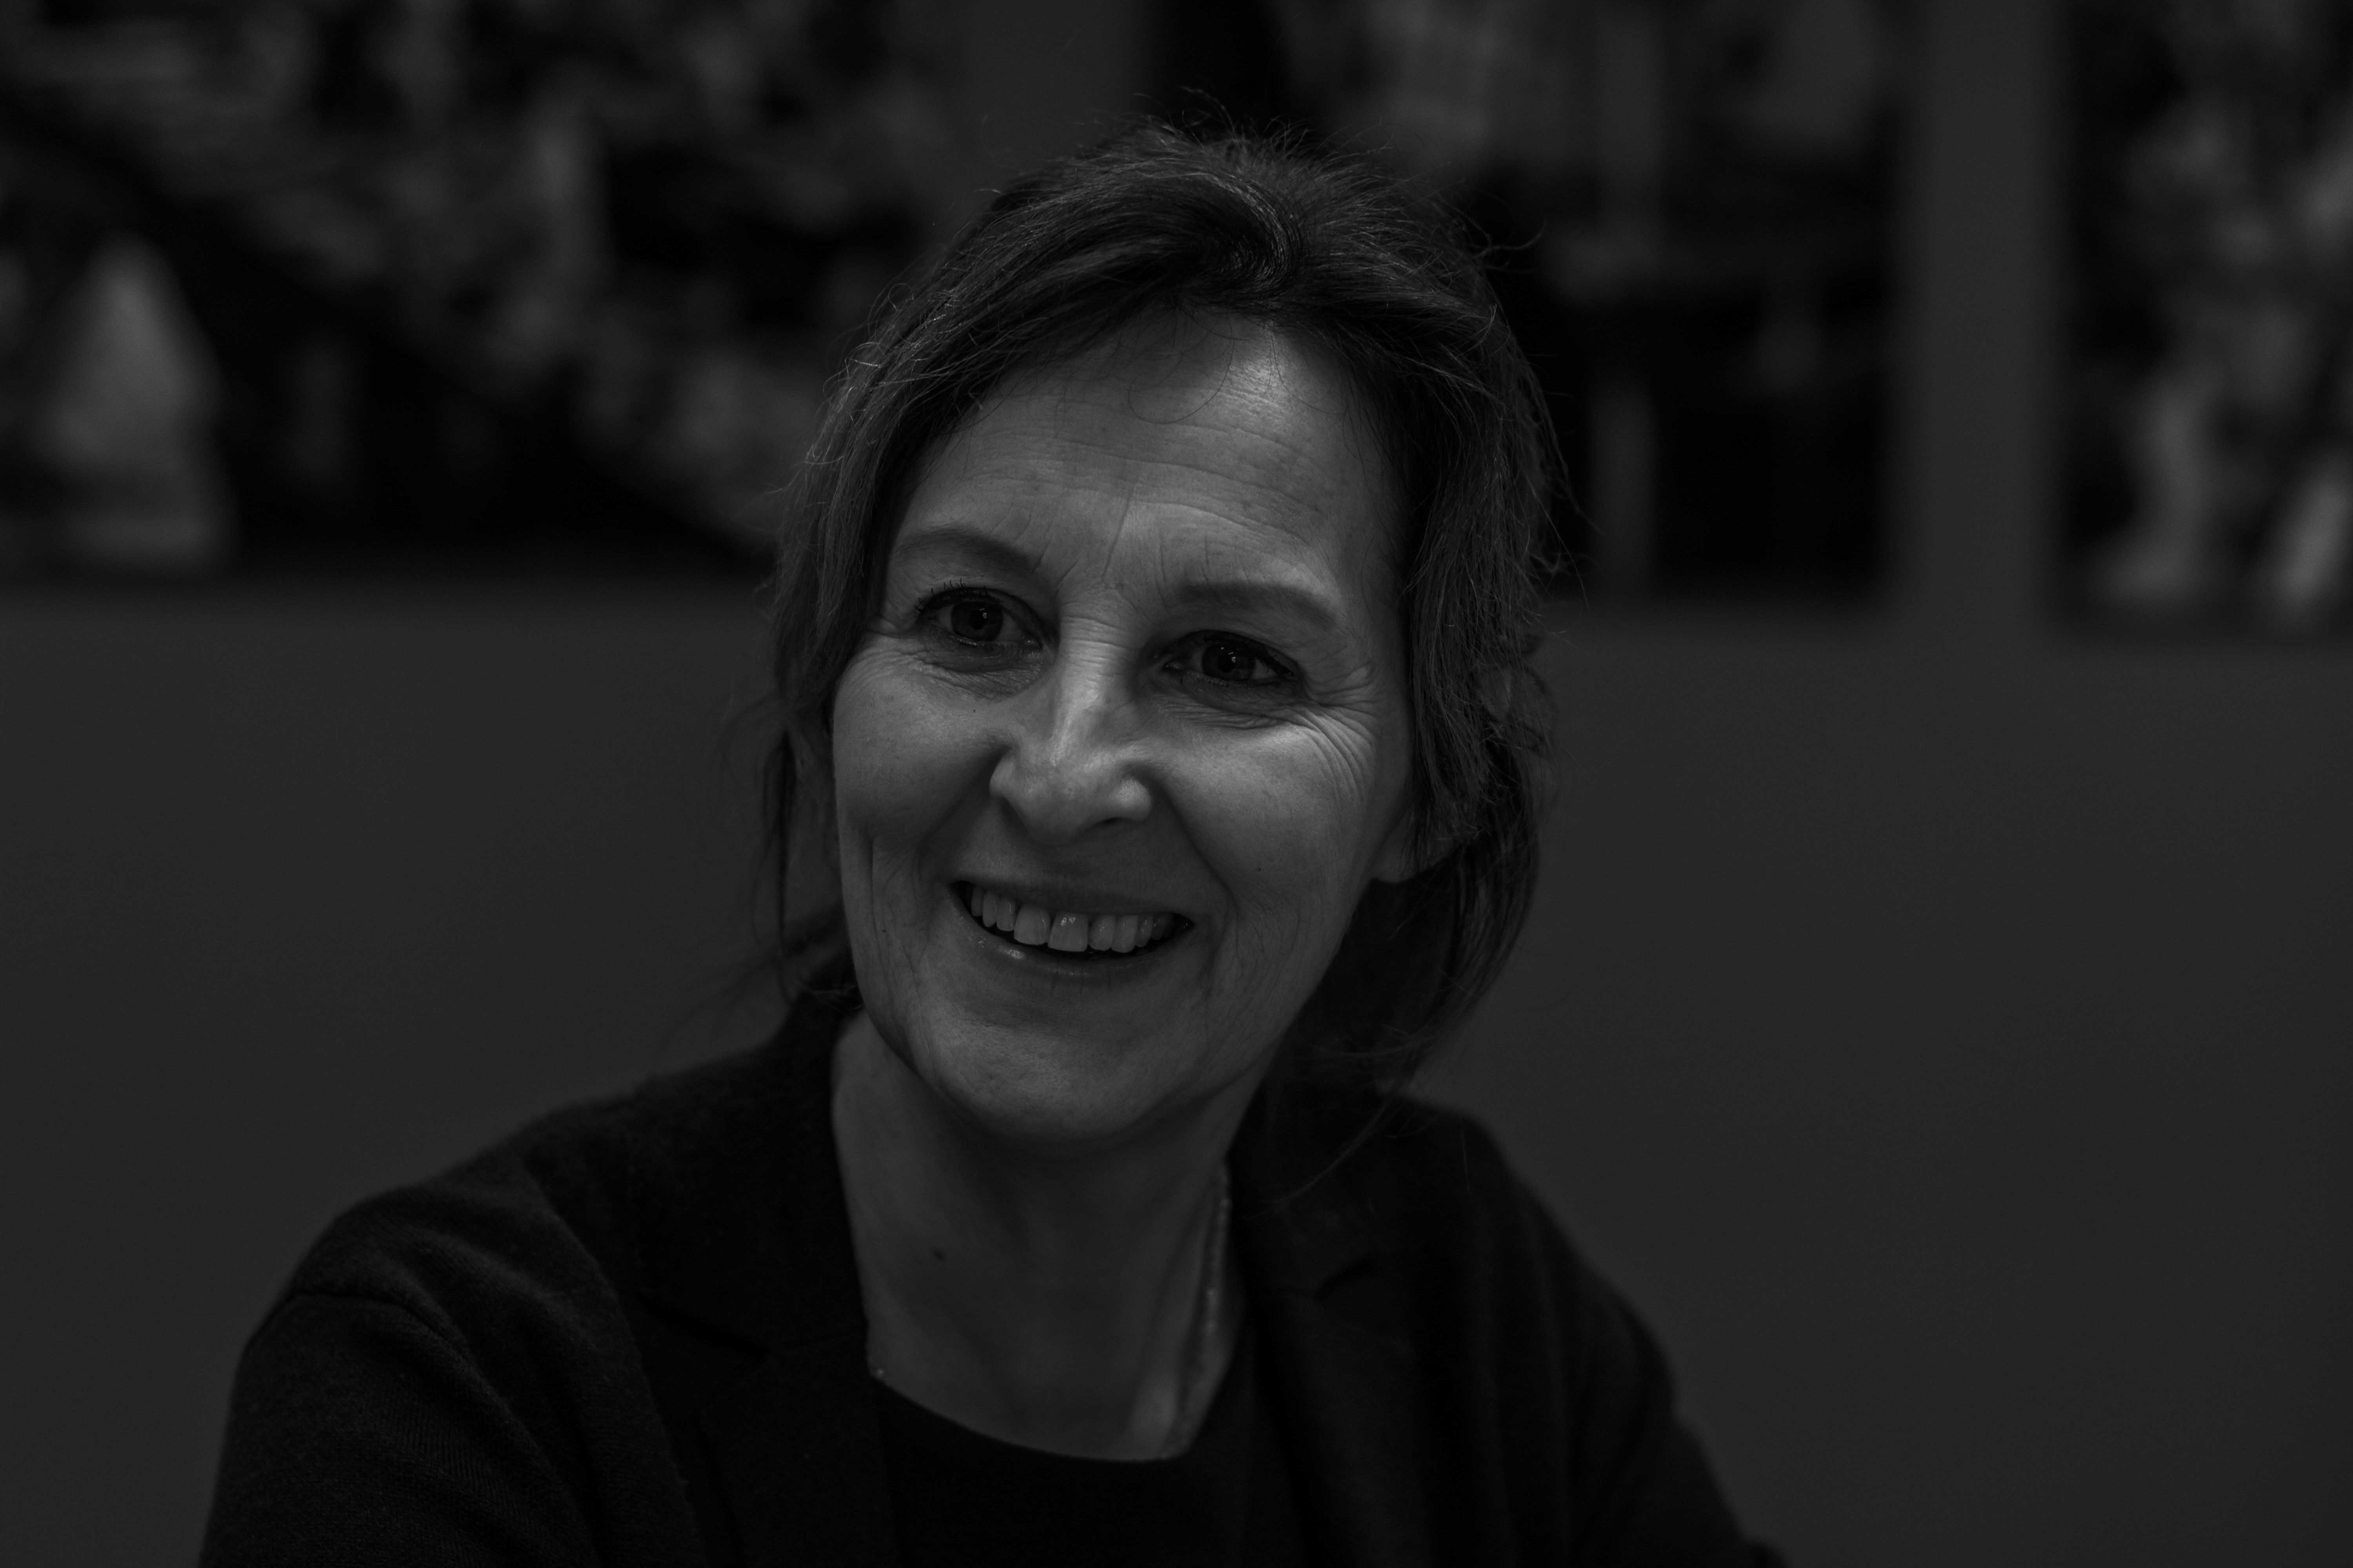
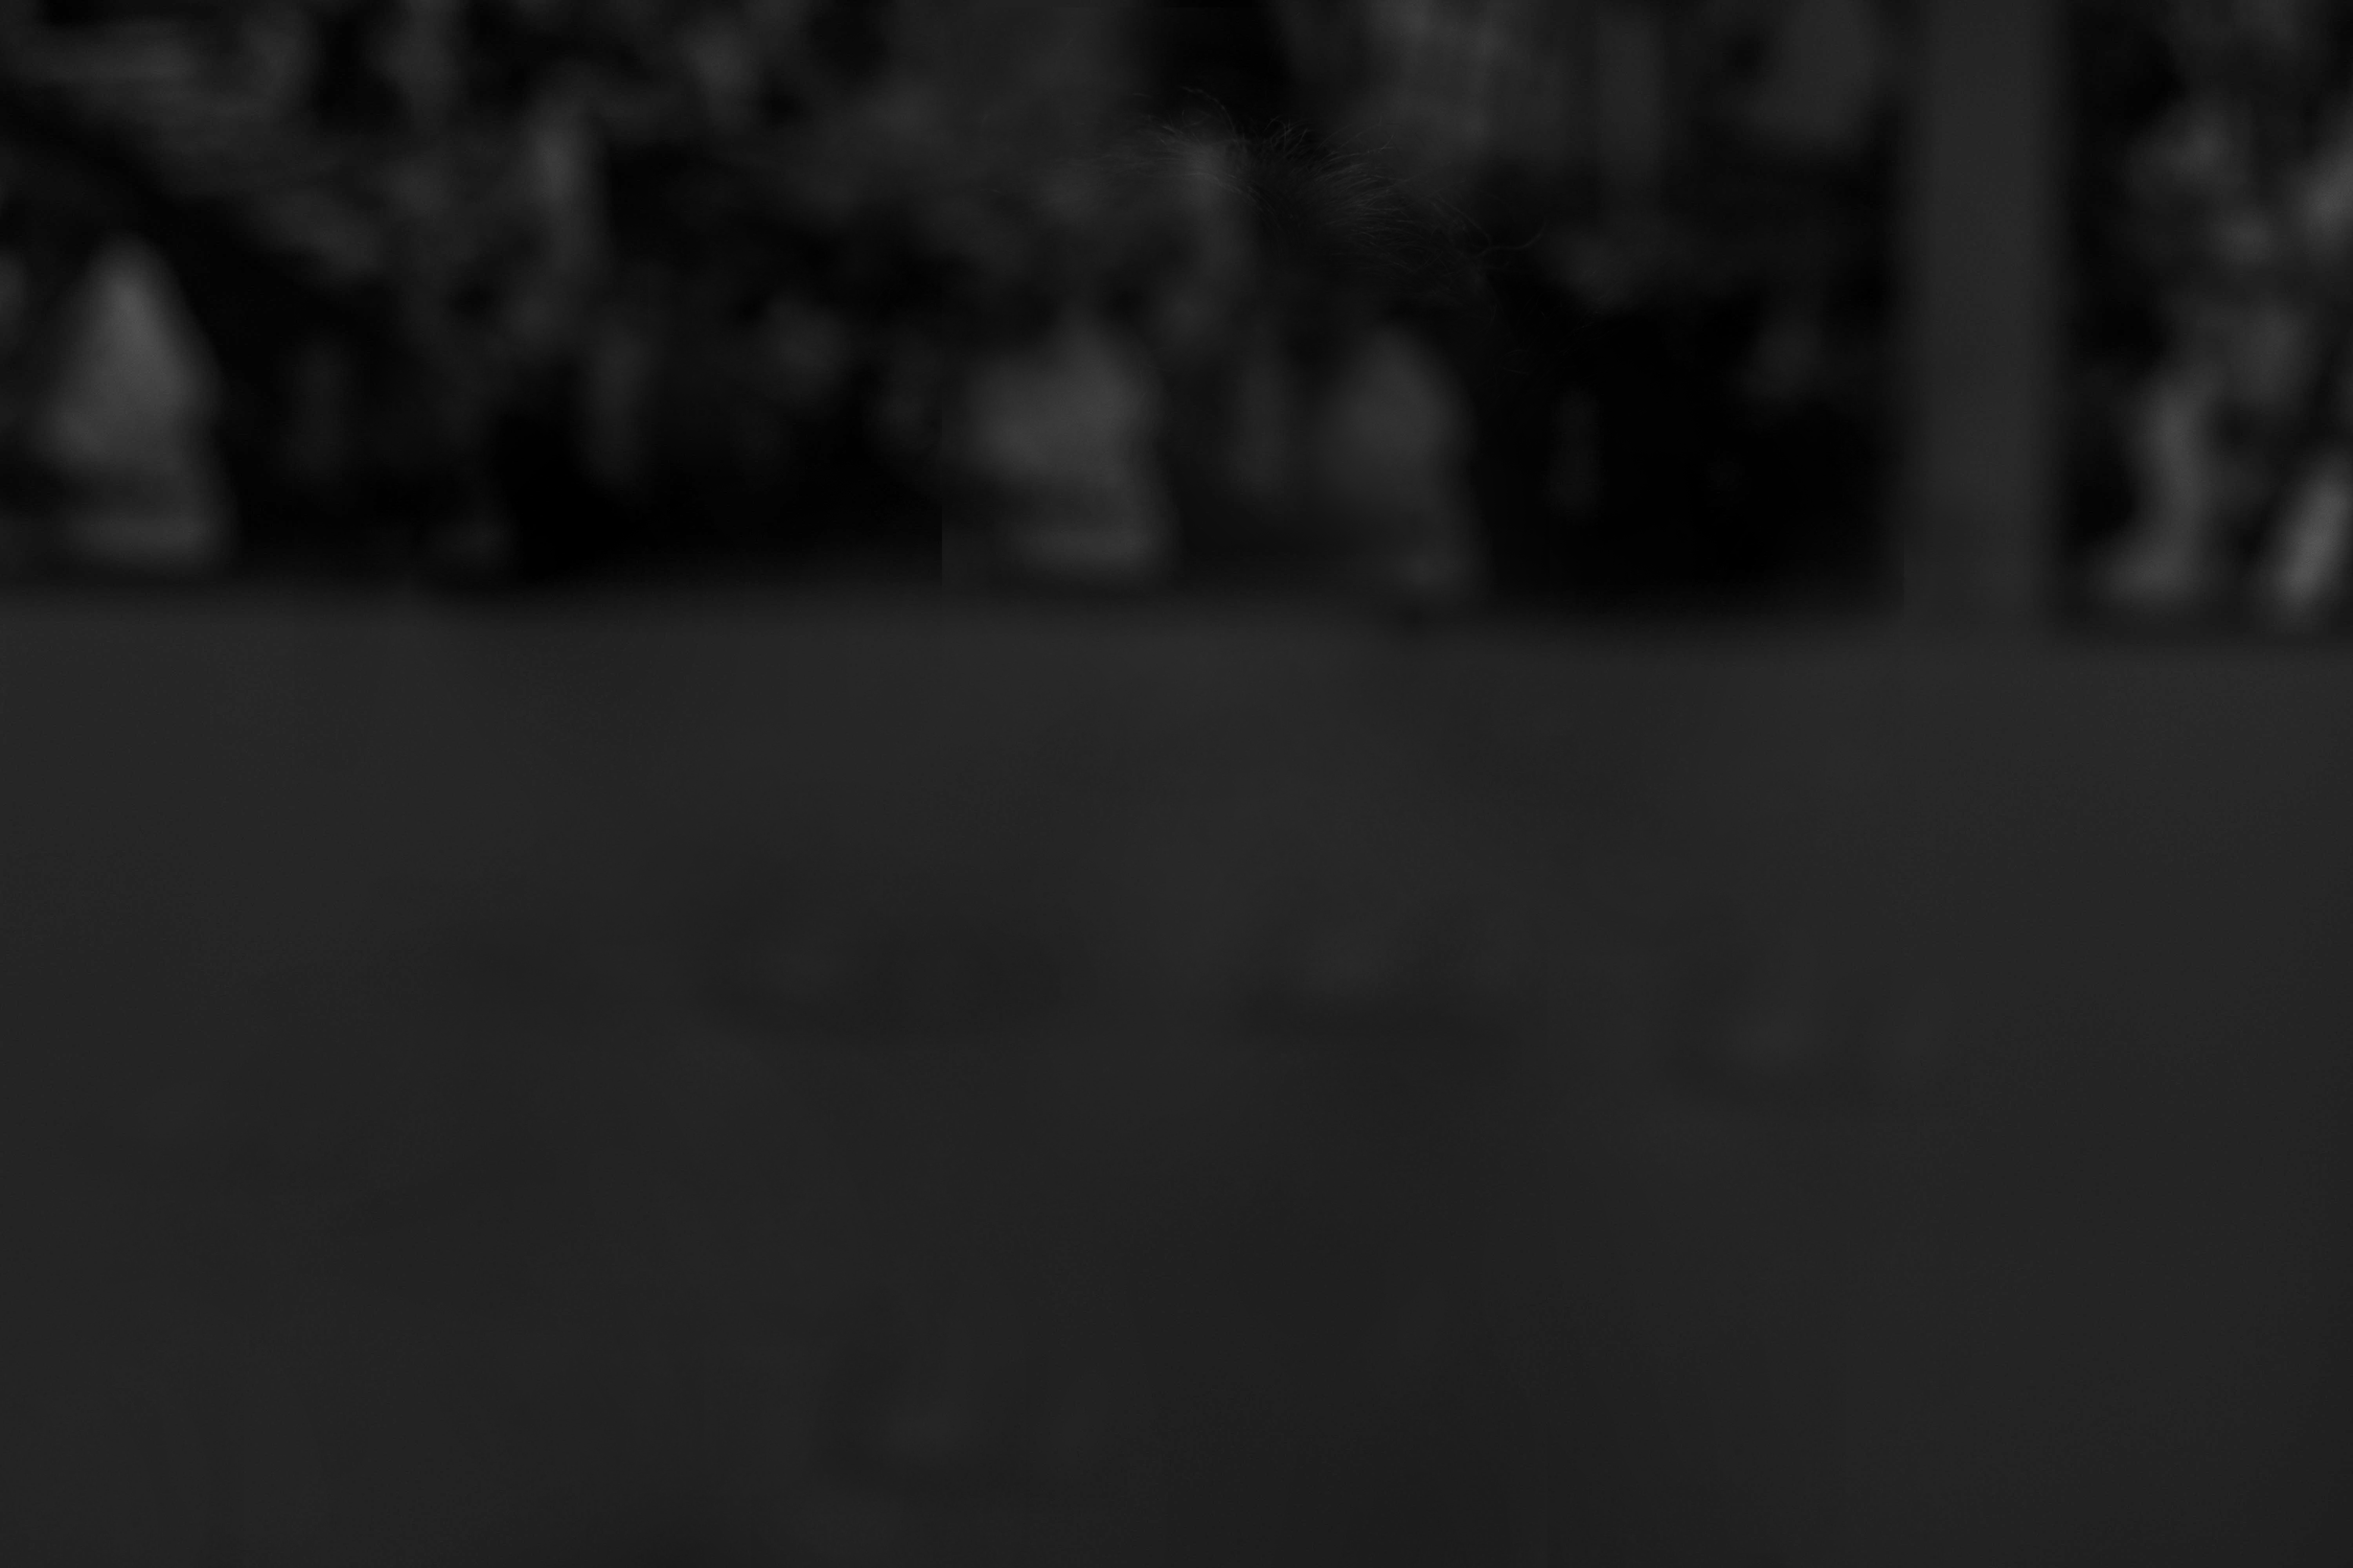
info verwijderd
op verzoek van Josje de info eraf gehaald

Changed region(s): [[0.0935, 0.0938, 0.748, 1.0], [0.6857, 0.2812, 0.7168, 0.3438], [0.561, 0.1562, 0.5922, 0.1875]]

diff --git a/about.html b/about.html
@@ -63,9 +63,9 @@
     </div>
     <div class="col-sm-6">
       <h2>Over ons</h2>
-      <h3>Josje Verbeeten </h3>
+      <h3>Lorem Ipsum</h3>
       <p>
-        Mijn naam is Josje Verbeeten, ik ben sinds 1 mei 2017 de Robotacademie aan het opzetten. Robotacademie is een initiatief van Smart Robotics. Ik hoorde Mark Menting in februari in het NOS-journaal over het uitzendbureau van robots en over het idee om 30.000 mensen de gaan trainen. Hierdoor raakte ik erg enthousiast en bedacht me: ‘Dit ga ik doen!’ Zelf heb ik naast een achtergrond als docent, ook een achtergrond als adviseur. Ik heb gewerkt binnen de overheid en het bedrijfsleven.  Op eigen initiatief ben ik op de Robotacademie afgestapt en heb nu als functie directrice van het bedrijf.
+        Far far away, behind the word mountains, far from the countries Vokalia and Consonantia, there live the blind texts. Separated they live in Bookmarksgrove right at the coast of the Semantics, a large language ocean. A small river named Duden flows by their place and supplies it with the necessary regelialia. It is a paradisematic country, in which roasted parts of sentences fly into your mouth. Even the all-powerful Pointing has no control about the blind texts it is an almost unorthographic life One day however a small line of blind text by the name of Lorem Ipsum decided to Robot.
       </p>
 
     </div>

diff --git a/index.html b/index.html
@@ -17,6 +17,9 @@
 </head>
 
 <body>
+  <script>
+    alert("Deze website is een schoolopdracht.");
+  </script>
   <header>
     <nav class="navbar navbar-inverse">
       <div class="container-fluid">

diff --git a/styles/index.css b/styles/index.css
@@ -39,7 +39,7 @@ header {
 margin: 0 auto;
   }
   header {
-    height: 160vh;
+    height: 165vh;
   }
   .btn-readmore{
     margin-bottom:75px;
